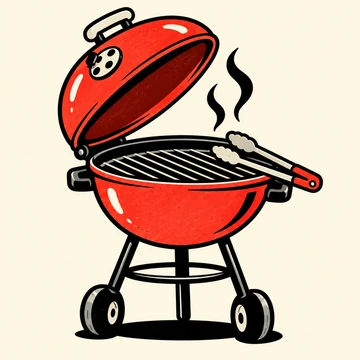
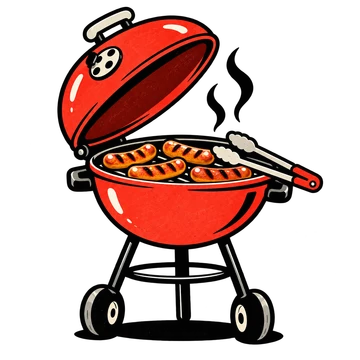
Enhance box-to-BBQ step illustrations

diff --git a/resources/js/Pages/Home.vue b/resources/js/Pages/Home.vue
@@ -121,7 +121,7 @@ const faqs = [
                             <span class="step-number">01</span>
                             <MascotArtwork
                                 pose="step-box"
-                                sizes="(max-width: 639px) 240px, (max-width: 899px) 200px, 260px"
+                                sizes="(max-width: 639px) 200px, (max-width: 899px) 170px, 220px"
                             />
                         </div>
                         <span class="step-pun">Love at first bite.</span>
@@ -133,7 +133,7 @@ const faqs = [
                             <span class="step-number">02</span>
                             <MascotArtwork
                                 pose="step-truck"
-                                sizes="(max-width: 639px) 240px, (max-width: 899px) 200px, 260px"
+                                sizes="(max-width: 639px) 200px, (max-width: 899px) 170px, 220px"
                             />
                         </div>
                         <span class="step-pun">We’re on a roll.</span>
@@ -148,7 +148,7 @@ const faqs = [
                             <span class="step-number">03</span>
                             <MascotArtwork
                                 pose="step-bbq"
-                                sizes="(max-width: 639px) 240px, (max-width: 899px) 200px, 260px"
+                                sizes="(max-width: 639px) 200px, (max-width: 899px) 170px, 220px"
                             />
                         </div>
                         <span class="step-pun">Licence to grill.</span>

diff --git a/resources/css/app.css b/resources/css/app.css
@@ -1068,13 +1068,13 @@ b {
     display: grid;
     justify-items: center;
     align-items: center;
-    min-height: 280px;
+    min-height: 240px;
     border-bottom: 1px solid var(--color-line);
     padding-bottom: 20px;
     margin-bottom: 24px;
 }
 .step-illustration .section-mascot {
-    width: min(100%, 260px);
+    width: min(100%, 220px);
 }
 .step-number {
     position: absolute;
@@ -2081,10 +2081,10 @@ summary::-webkit-details-marker {
         gap: 25px;
     }
     .step-illustration {
-        min-height: 220px;
+        min-height: 190px;
     }
     .step-illustration .section-mascot {
-        width: min(100%, 200px);
+        width: min(100%, 170px);
     }
     .steps-grid h3 {
         font-size: 25px;
@@ -2387,12 +2387,12 @@ summary::-webkit-details-marker {
         margin-top: 28px;
     }
     .step-illustration {
-        min-height: 253px;
+        min-height: 213px;
         padding-bottom: 13px;
         margin-bottom: 18px;
     }
     .step-illustration .section-mascot {
-        width: 240px;
+        width: 200px;
         max-width: 100%;
     }
     .steps-grid h3 {

diff --git a/brand/image-prompts.md b/brand/image-prompts.md
@@ -377,7 +377,7 @@ Scene: The sausage mascot is a proudly overqualified backyard barbecue chef. It 
 
 ## Box-to-BBQ object illustrations — 15 September 2026
 
-Mode: built-in `image_gen`, one generation per object. Style reference: `brand/mascots/step-grill.png`, used only for its drawing treatment. These three object-only images replace the earlier column mascots. The delivery mascot beside the heading stays in place. No characters, faces or visible sausages appear in these columns.
+Mode: built-in `image_gen`, one generation per object. Style reference: `brand/mascots/step-grill.png`, used only for its drawing treatment. These three object illustrations replaced the earlier column mascots. The delivery mascot beside the heading stays in place. The initial version had no characters, faces or visible sausages; the enhanced revisions below add sausage contents and truck branding.
 
 Design research: [CHILL transport information](https://faq.chill.com.au/en/knowledge/transport-faqs-1) lists vans and trucks for deliveries; its [temperature-controlled transport overview](https://chill.com.au/wp-content/uploads/2021/09/How-can-we-help-you-rev-3.pdf) identifies refrigerated van/truck services. A compact refrigerated vehicle is our design choice for the planned local chilled-delivery step, not a claim about a contracted courier or vehicle. [Weber's Compact Kettle range](https://anz.weber.com/en-au/collections/compact-kettle) informed the recognisable round bowl, domed lid and wheeled stand for the barbecue illustration. The open insulated carton follows the existing box-and-chilled-delivery concept. No third-party logos or product branding were reproduced.
 
@@ -435,4 +435,42 @@ Make a single attractive OBJECT, not a character: absolutely no eyes, face, mout
 Square 1024x1024 canvas. Center the complete object with a generous approximately 10% empty margin around it. Full object entirely inside the canvas, recognizable at 240px wide. A small black ground shadow and a couple of simple black accent strokes are fine.
 Background: perfectly flat uniform cream #FFF5DD, no gradient, no scene, no texture outside the object, no checkerboard or white border. Every object part has a solid closed black outer contour.
 Subject: A bold bright-red round kettle charcoal barbecue in three-quarter view, on a sturdy black tripod stand with two small chunky wheels. Its domed red lid is hinged open at the back, showing an empty black-and-cream cooking grate. A pair of simple cream-and-black metal barbecue tongs rests diagonally on the rim. Cream lid handle and small black vent holes, two elegant curling black heat lines above the grill. No food or sausages anywhere. Match the red kettle prop in the reference's drawing style, but make the barbecue the sole subject and redraw it larger with a clearly open lid. Entire barbecue including lid, stand and wheels inside the canvas at about 75% width and 85% height.
+```
+
+## Enhanced Box-to-BBQ illustrations — 15 September 2026
+
+Mode: built-in `image_gen`, targeted edits of the three existing column illustrations. These revisions fill the box and barbecue with sausages and replace the truck snowflake with the mascot and WIENER BOX branding.
+
+The original PNGs remain at `brand/mascots/step-box.png`, `brand/mascots/step-truck.png` and `brand/mascots/step-bbq.png`. Website assets reuse the corresponding 360 px and 720 px WebP paths, at quality 90, with refreshed SVG display masks. The box and truck outputs contain an opaque checkerboard removed by their display masks; the barbecue has actual alpha transparency, which is preserved. The existing page composition and responsive image references consume these replacements.
+
+### Final edit prompt set
+
+#### step-box
+
+Reference inputs: `public/images/mascots/step-box-720.webp`.
+
+Built-in source: `/Users/stompy/.codex/generated_images/01a0a4b2-51b0-7b40-a1ac-d8d362c1b95d/exec-cb738d51-642b-4251-8884-c937092a2034.png`.
+
+```text
+Use case: precise-object-edit. Asset type: existing illustrated website step icon, square. Edit target: Image 1, the yellow open chilled-delivery box. Enhance this exact illustration by filling the visible box interior with a generous collection of plump reddish-orange German sausage links nestled in the cream insulated liner, alongside a smaller visible cold pack at the back. The sausages must be obvious and appetising at a 260px display size, with tied ends, bold black outlines and simple cream highlights. The sausages are food, no faces. Preserve the existing box geometry, viewpoint, open yellow flaps, red stripe and tape, heavy black outlines, restrained vintage print grain, cream highlights and golden accent marks. Retain the complete original object silhouette, scale, and square framing with a comfortable margin. Match the existing limited mustard-yellow, warm cream, tomato-red, orange and black palette and playful retro cartoon style. Change only the contents of the box. No added text or extra props. Isolate illustration on a genuinely transparent background; keep cream inside the liner and black grounded shadow intact.
+```
+
+#### step-truck
+
+Reference inputs: `public/images/mascots/step-truck-720.webp`, `public/images/mascots/choose-720.webp`.
+
+Built-in source: `/Users/stompy/.codex/generated_images/01a0a4b2-51b0-7b40-a1ac-d8d362c1b95d/exec-7f6968e5-e2f7-4645-be4e-ae6384525300.png`.
+
+```text
+Use case: compositing. Asset type: existing illustrated website delivery step icon, square. Image 1 is the edit target, the yellow-and-cream delivery truck. Image 2 is the exact sausage mascot identity and style reference to print as branding on the truck, not as a separate character. Replace the large black snowflake on the yellow side panel of the truck with a branded livery: a small smiling orange sausage mascot matching Image 2 (sausage body with tied ends, expressive cream eyes, black arms, white glove waving, red shoes), alongside a very legible large stacked black wordmark reading exactly "WIENER" on the first line and "BOX" on the second line. Spell WIENER as W-I-E-N-E-R. Use chunky friendly rounded uppercase lettering, with the logo and mascot fitting neatly within the yellow cargo panel above the red stripe. It should read as a deliberate printed truck brand. Remove the snowflake completely. Preserve the exact existing truck viewpoint and silhouette, yellow cargo body, cream cab, red horizontal stripe and wheel hubs, rooftop refrigeration unit, wheels, black shadow, motion marks and comfortable square framing. Match the heavy black outlines, limited warm palette and restrained vintage print grain. No added standalone characters, extra text, watermarks, scenery, or photographic elements. Isolate entire illustration on a genuinely transparent background, keeping cream cab and black grounded shadow intact.
+```
+
+#### step-bbq
+
+Reference inputs: `public/images/mascots/step-bbq-720.webp`.
+
+Built-in source: `/Users/stompy/.codex/generated_images/01a0a4b2-51b0-7b40-a1ac-d8d362c1b95d/exec-0f5fb94c-a51b-406c-a09c-24580560ed4e.png`.
+
+```text
+Use case: precise-object-edit. Asset type: existing illustrated website barbecue step icon, square. Edit target: Image 1, the open red kettle barbecue. Add four plump golden-orange and reddish-brown German sausages visibly resting on the black grill grate. Place them naturally across the grate in perspective, each with bold black outlines, 2-3 dark diagonal grill marks and simple creamy highlights, easily readable at a 260px display size. Food only, no faces. Keep the sausages inside the grill and clearly separated from the existing tongs. Preserve the exact existing red barbecue body, open lid, handle, wheels, legs, grill, right-side tongs, black curling heat wisps and grounded black shadow, object silhouette, square framing and margin. Match its warm red, golden-orange, cream and black retro cartoon palette, bold outlines and restrained vintage print grain. Change only the empty grill to have sausages cooking on it. No extra objects or text. Isolate illustration on a genuinely transparent background; keep cream details intact and transparency in open gaps between the legs.
 ```
